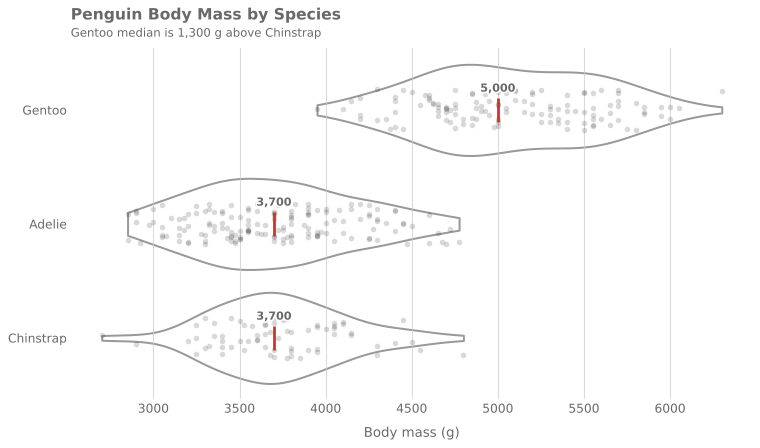
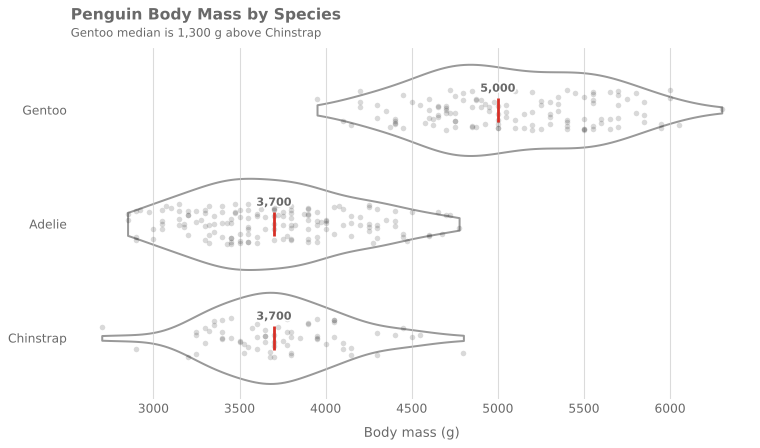
📊 feat(skill): v3.1 — P10–P13 finalised with exemplars; checker false-positive fixes
- P10 slope/dumbbell, P11 part-to-whole, P12 ECDF/ridgeline, P13 training
  diagnostics: final templates, exemplar PNGs and captions
- SKILL.md disambiguators (before/after → P10, stacked → P11, confusion → P13)
- checker: ridgeline fills on offset baselines no longer trip area-not-at-zero;
  one label per category/band no longer counts as free-standing annotations
  (both found by re-scoring the 207 v2 baseline charts); new good control

Claude-Session: https://claude.ai/code/session_01LP64xGbrGmecVtBUJrD4X4

diff --git a/scripts/render_exemplars.py b/scripts/render_exemplars.py
@@ -166,6 +166,56 @@ def oc_titanic(tmp):
     return {}
 
 
+def p10_gapminder(tmp):
+    d = pub("gapminder.csv")
+    d = d[d["year"].isin([1952, 2007])]
+    csv(d.rename(columns={"continent": "item", "year": "period", "lifeExp": "value"})[
+        ["item", "period", "value"]], tmp)
+    return {}
+
+
+def p10_healthexp(tmp):
+    d = pub("healthexp.csv")
+    csv(d.rename(columns={"Country": "item", "Year": "period", "Spending_USD": "value"})[
+        ["item", "period", "value"]], tmp)
+    return {}
+
+
+def p11_titanic(tmp):
+    d = pub("titanic.csv")
+    d["alive"] = d["alive"].map({"yes": "Survived", "no": "Died"})
+    csv(d.rename(columns={"class": "group", "alive": "component"})[["group", "component"]], tmp)
+    return {}
+
+
+def p11_iowa(tmp):
+    d = pub("iowa_electricity.csv")
+    d["year"] = pd.to_datetime(d["year"]).dt.year
+    csv(d.rename(columns={"year": "x", "source": "component", "net_generation": "value"}), tmp)
+    return {}
+
+
+def p12_taxis(tmp):
+    d = pub("taxis.csv")
+    d["payment"] = d["payment"].str.capitalize()
+    csv(d.rename(columns={"payment": "group", "distance": "value"})[["group", "value"]], tmp)
+    return {}
+
+
+def p12_seattle(tmp):
+    d = pd.read_csv(RAW / "public/seattle_weather.csv", parse_dates=["date"]).sort_values("date")
+    d["group"] = d["date"].dt.strftime("%b")
+    csv(d.rename(columns={"temp_max": "value"})[["group", "value"]], tmp)
+    return {}
+
+
+def p13(name):
+    def f(tmp):
+        shutil.copy(RAW / f"precomputed/ml/{name}.csv", tmp / "data.csv")
+        return {}
+    return f
+
+
 # --------------------------------------------------------------------------- catalogue
 # (output name, pattern file stem, block index, setup, [(placeholder, replacement), ...])
 
@@ -223,6 +273,24 @@ EXEMPLARS = [
         ("Dataset Name (positive = class)", "Titanic Survival (positive = survived)")]),
     ("P9-b", "P9-pr-roc", 0, p9("breast_cancer"), [
         ("Dataset Name (positive = class)", "Breast Cancer (positive = benign)")]),
+    ("P10-slope", "P10-slope-dumbbell", 0, p10_gapminder, [
+        ("Chart Title", "Life Expectancy by Continent, 1952 vs 2007")]),
+    ("P10-dumbbell", "P10-slope-dumbbell", 1, p10_healthexp, [
+        ("Chart Title", "Health Spending per Capita (USD), 1970 vs 2020")]),
+    ("P11-share-bars", "P11-part-to-whole", 0, p11_titanic, [
+        ("Chart Title", "Titanic Passengers Who Survived, by Class")]),
+    ("P11-stacked-area", "P11-part-to-whole", 1, p11_iowa, [
+        ("Chart Title", "Iowa Electricity Generation by Source, 2001–2017")]),
+    ("P12-ecdf", "P12-distribution-ecdf-ridgeline", 0, p12_taxis, [
+        ("Chart Title", "NYC Taxi Trip Distance by Payment Type"),
+        ("Value (units; axis cut", "Trip distance (miles; axis cut")]),
+    ("P12-ridgeline", "P12-distribution-ecdf-ridgeline", 1, p12_seattle, [
+        ("Chart Title", "Seattle Daily Maximum Temperature by Month, 2012–2015"),
+        ("Value (units)", "Daily maximum temperature (°C)")]),
+    ("P13-training", "P13-training-diagnostics", 0, p13("training_breast_cancer"), [
+        ("Chart Title", "MLP Training History — Breast Cancer")]),
+    ("P13-confusion", "P13-training-diagnostics", 1, p13("predictions_wine"), [
+        ("Chart Title", "Logistic Regression Confusion Matrix — Wine Cultivars")]),
     ("other-line", "other-charts", 0, oc_stocks, [
         ("Chart Title", "Monthly Closing Price, 2000–2010"), ("Value (units)", "Price (USD)")]),
     ("other-scatter", "other-charts", 1, oc_penguins, [

diff --git a/skills/matplotlib/scripts/check_figure.py b/skills/matplotlib/scripts/check_figure.py
@@ -1109,10 +1109,22 @@ def _flat_edge(vals):
     return None
 
 
+def _offset_rows(ax):
+    """Ridgeline / joyplot: several fills, each on its own flat baseline."""
+    bases = set()
+    for coll in ax.collections:
+        if isinstance(coll, PolyCollection) and not isinstance(coll, QuadMesh):
+            for path in coll.get_paths():
+                b = _flat_edge(np.asarray(path.vertices, float)[:, 1])
+                if b is not None:
+                    bases.add(round(b, 6))
+    return len(bases) >= 3
+
+
 def _check_areas_at_zero(ctx):
     for j, ax in ctx["vis"]:
-        if _is_heatmap(ax):
-            continue
+        if _is_heatmap(ax) or _offset_rows(ax):
+            continue  # ridgeline rows sit on offset baselines by design
         for coll in ax.collections:
             if not isinstance(coll, PolyCollection) or not coll.get_visible():
                 continue
@@ -1537,11 +1549,23 @@ def _check_annotation_count(ctx):
             if len(txt) <= 30 and len(ends) and _text_mark_dist(t, bb, ends) <= thr:
                 continue  # direct label at a line end
             count.append(txt)
-        if len(count) > MAX_ANNOTATIONS:
+        # One label per category row/column or per band (ridgeline medians, band
+        # names, n= per bar) is a labelling scheme, not free-standing notes.
+        n_cat = max(
+            sum(not _is_numeric_label(lab.get_text()) for lab in _visible_ticklabels(a))
+            for a in (ax.xaxis, ax.yaxis)
+        )
+        n_fill = sum(
+            isinstance(c, PolyCollection) and not isinstance(c, QuadMesh)
+            for c in ax.collections
+        )
+        per_mark = max(n_cat, n_fill) if max(n_cat, n_fill) >= 3 else 0
+        free = len(count) - per_mark if per_mark and len(count) >= per_mark - 1 else len(count)
+        if free > MAX_ANNOTATIONS:
             ctx["add"](
                 "WARN",
                 "too-many-annotations",
-                f"panel {j} has {len(count)} free-standing annotations "
+                f"panel {j} has {free} free-standing annotations "
                 f"(e.g. '{_short(count[0], 25)}') — one to three annotations "
                 "per panel; keep the ones that state the takeaway",
             )

diff --git a/tests/broken/good_ridgeline_row_labels.py b/tests/broken/good_ridgeline_row_labels.py
@@ -1,0 +1,31 @@
+# expect: clean
+"""Ridgeline: each row's fill sits on its own baseline, one median label per row."""
+
+import matplotlib
+
+matplotlib.use("Agg")
+import matplotlib.patheffects as pe  # noqa: E402
+import matplotlib.pyplot as plt  # noqa: E402
+import numpy as np  # noqa: E402
+import seaborn as sns  # noqa: E402
+
+sns.set_theme(font_scale=1.0, style="whitegrid", font="DejaVu Sans")
+rng = np.random.default_rng(1)
+months = ["Jan", "Feb", "Mar", "Apr", "May", "Jun", "Jul", "Aug"]
+fig, ax = plt.subplots(figsize=(9, 7), dpi=150)
+x = np.linspace(-5, 35, 200)
+halo = [pe.withStroke(linewidth=3, foreground="white")]
+for i, m in enumerate(months):
+    base = len(months) - 1 - i
+    mu = 8 + 2.5 * i
+    y = np.exp(-0.5 * ((x - mu) / 3) ** 2) * 1.6
+    ax.fill_between(x, base, base + y, color="#72a5b4", edgecolor="white", zorder=20 - i)
+    t = ax.text(mu, base + 0.15, f"{mu:.0f}", ha="center", va="bottom", fontsize=9,
+                color="dimgrey", zorder=30)
+    t.set_path_effects(halo)
+ax.set_yticks(range(len(months)), months[::-1])
+ax.set_xlabel("Max temperature (°C)", color="dimgrey")
+ax.set_title("Chart Title", loc="left", fontsize=14, color="dimgrey", weight="semibold")
+ax.grid(False)
+ax.tick_params(axis="both", which="both", length=0, labelcolor="dimgrey")
+sns.despine(left=True, bottom=True)

diff --git a/skills/matplotlib/patterns/P12-distribution-ecdf-ridgeline.md b/skills/matplotlib/patterns/P12-distribution-ecdf-ridgeline.md
@@ -4,6 +4,7 @@
 "what share is below x?" or the tails matter; ridgeline for many *ordered* groups
 (months, years, ranks). A few groups with raw points → P4; one variable → histogram
 (other-charts.md).
+**Exemplars:** `exemplars/P12-ecdf.png` (2 groups, medians marked) and `exemplars/P12-ridgeline.png` (12 months in calendar order, the peak row highlighted). Fixed: ECDF colour + line style + direct labels; ridgeline white outlines, lower rows in front. Varies: guide lines, highlighted row, x clipping.
 
 ## Contents
 - ECDF (2–4 groups)
@@ -26,15 +27,17 @@ STYLES, MARKERS = ["-", "--", ":", "-."], ["o", "s", "^", "D"]  # second encodin
 fmt = ".2f" if med.max() < 10 else ".1f" if med.max() < 100 else ",.0f"
 HALO = [pe.withStroke(linewidth=3, foreground="white")]
 fig, ax = plt.subplots(figsize=(10, 6), dpi=150)
-xmax = df["value"].quantile(0.99)  # clip the long tail and say so in the x label
+xlo, xmax = df["value"].min(), df["value"].quantile(0.99)  # cut the long tail; say so in the label
 for i, (g, c, ls, mk) in enumerate(zip(groups, COLORS, STYLES, MARKERS)):
     v = df.loc[df["group"] == g, "value"]
     ax.ecdf(v, color=c, linestyle=ls, linewidth=2, zorder=3)
     ax.scatter([med[g]], [0.5], s=45, color=c, marker=mk, edgecolors="white", zorder=4)
     # Direct label with the median: rightmost curve below-right, the others above-left
-    q, dx, ha = (0.3, 10, "left") if i == 0 else (0.85 - 0.2 * (len(groups) - 1 - i), -10, "right")
-    t = ax.annotate(f"{g}  (median {med[g]:{fmt}})", xy=(v.quantile(q), q), xytext=(dx, 0),
-                    textcoords="offset points", ha=ha, va="center", fontsize=11, color=c,
+    q, dx, ha = (0.3, 10, "left") if i == 0 else (0.85 - 0.2 * (len(groups) - 1 - i), -4, "right")
+    x = v.quantile(q) if i == 0 else max(v.quantile(q), xlo + 0.3 * (xmax - xlo))  # room on the left
+    t = ax.annotate(f"{g}  (median {med[g]:{fmt}})", xy=(x, (v <= x).mean()), xytext=(dx, 0 if i == 0 else 4),
+                    textcoords="offset points", ha=ha, va="center" if i == 0 else "bottom",
+                    fontsize=11, color=c,
                     weight="semibold")
     t.set_path_effects(HALO)  # middle curves have no empty side
 
@@ -43,7 +46,7 @@ ax.axhline(0.5, color="dimgrey", linestyle=(0, (2, 3)), linewidth=0.8, zorder=2)
 ax.text(0.99, 0.5, "median", transform=ax.get_yaxis_transform(), ha="right", va="bottom",
         fontsize=10, color="dimgrey")
 
-ax.set_xlim(df["value"].min(), xmax)
+ax.set_xlim(xlo, xmax)
 ax.set_ylim(0, 1.02)
 ax.yaxis.set_major_formatter(mticker.PercentFormatter(xmax=1, decimals=0))
 ax.set_xlabel("Value (units; axis cut at the 99th percentile)", fontsize=12, labelpad=8, color="dimgrey")

diff --git a/skills/matplotlib/patterns/P11-part-to-whole.md b/skills/matplotlib/patterns/P11-part-to-whole.md
@@ -3,6 +3,7 @@
 **Use for:** composition — each component's share within a group (100% bars) or how
 the mix changes over time (stacked area). Never a pie: shares compared by length or
 height along a common baseline read far more precisely than angles.
+**Exemplars:** `exemplars/P11-share-bars.png` (3 classes, the story component at the baseline) and `exemplars/P11-stacked-area.png` (3 sources over 17 years). Fixed: white separators, story component on the common baseline, names inside the bands. Varies: which component is coloured, label placement.
 
 ## Contents
 - 100% stacked horizontal bars (share within each of a few groups)
@@ -41,7 +42,7 @@ for c in comps:
     for i, (x0, wi) in enumerate(zip(left, w)):
         if wi >= 0.07:  # label only segments wide enough to hold it
             ax.text(x0 + wi / 2, i, f"{wi:.0%}", ha="center", va="center", fontsize=10.5,
-                    weight="semibold", color="white" if lum < 0.5 else "dimgrey")
+                    weight="semibold", color="white" if lum < 0.6 else "dimgrey")
     if names_fit:
         ax.text(left[-1] + 0.005, n - 0.55, c, ha="left", va="bottom", fontsize=10.5,
                 weight="semibold", color=colors[c] if c == focus else "dimgrey")
@@ -119,7 +120,7 @@ for c in order:
     ax.annotate(label, xy=(x1, y), xytext=(-10 if inside else 8, 0),
                 textcoords="offset points", ha="right" if inside else "left", va="center",
                 fontsize=10.5, weight="semibold",
-                color="white" if inside and lum < 0.5 else "dimgrey")
+                color="white" if inside and lum < 0.6 else "dimgrey")
 
 # The focus component's biggest one-step gain, inside its band where it happens
 step = share[focus].diff()

diff --git a/skills/matplotlib/patterns/P13-training-diagnostics.md b/skills/matplotlib/patterns/P13-training-diagnostics.md
@@ -3,6 +3,7 @@
 **Use for:** model training reports — train vs validation loss (and accuracy) per
 epoch, and a confusion matrix from true/predicted labels. Threshold curves → P9;
 decision regions → P6.
+**Exemplars:** `exemplars/P13-training.png` (loss on a log scale + accuracy, best epoch marked) and `exemplars/P13-confusion.png` (3 classes, row-normalised). Fixed: validation solid red, train dashed blue, best-epoch guide; confusion cells show % and n. Varies: log scale, second panel, the error the subtitle names.
 
 ## Contents
 - Training curves (loss, optional accuracy panel)

diff --git a/skills/matplotlib/patterns/P10-slope-dumbbell.md b/skills/matplotlib/patterns/P10-slope-dumbbell.md
@@ -1,6 +1,7 @@
 # Slope Chart / Dumbbell
 
 **Use for:** change between two points per item — two years, before/after, rank change.
+**Exemplars:** `exemplars/P10-slope.png` (5 continents, the biggest gain in ACCENT_RED) and `exemplars/P10-dumbbell.png` (6 countries, one missing start value). Fixed: values printed at both ends instead of a y-axis; grey context, colour only for the story. Varies: which item is highlighted, sort key, missing-value note.
 Many time points → line chart (`other-charts.md`); min/avg/max ranges → P5.
 
 ## Contents

diff --git a/skills/matplotlib/SKILL.md b/skills/matplotlib/SKILL.md
@@ -53,7 +53,8 @@ conflicts with the communicative goal, adapt the pattern to serve the principle.
 | — | `patterns/other-charts.md` | Line charts, scatter plots, histograms, grouped bars, anything else |
 
 A plain "line chart over time" is `other-charts.md`, not P3. A scatter plot of two
-variables is `other-charts.md`, not P6.
+variables is `other-charts.md`, not P6. Before/after per item is P10, not a line
+chart. Stacked bars are P11, not P2. A confusion matrix is P13, not P7.
 
 # Choosing the chart
 
